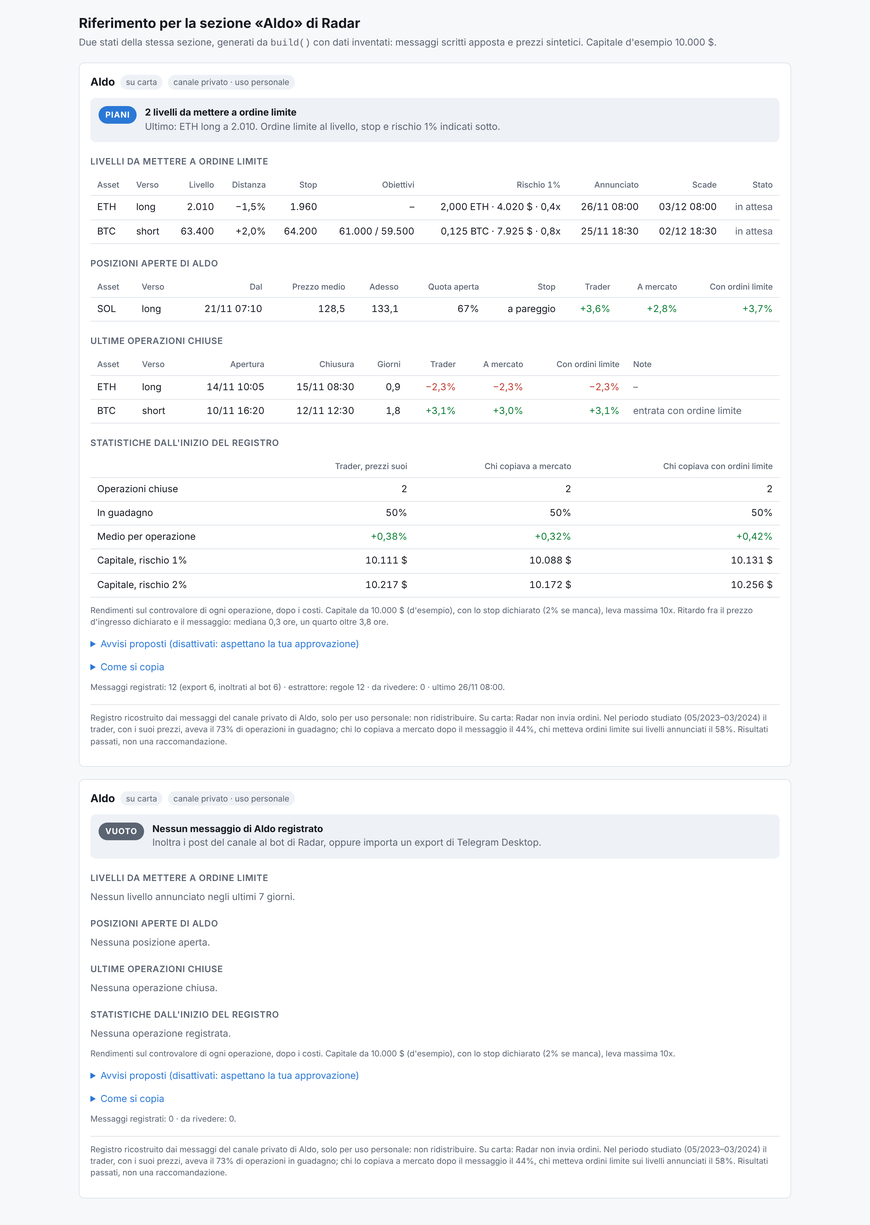
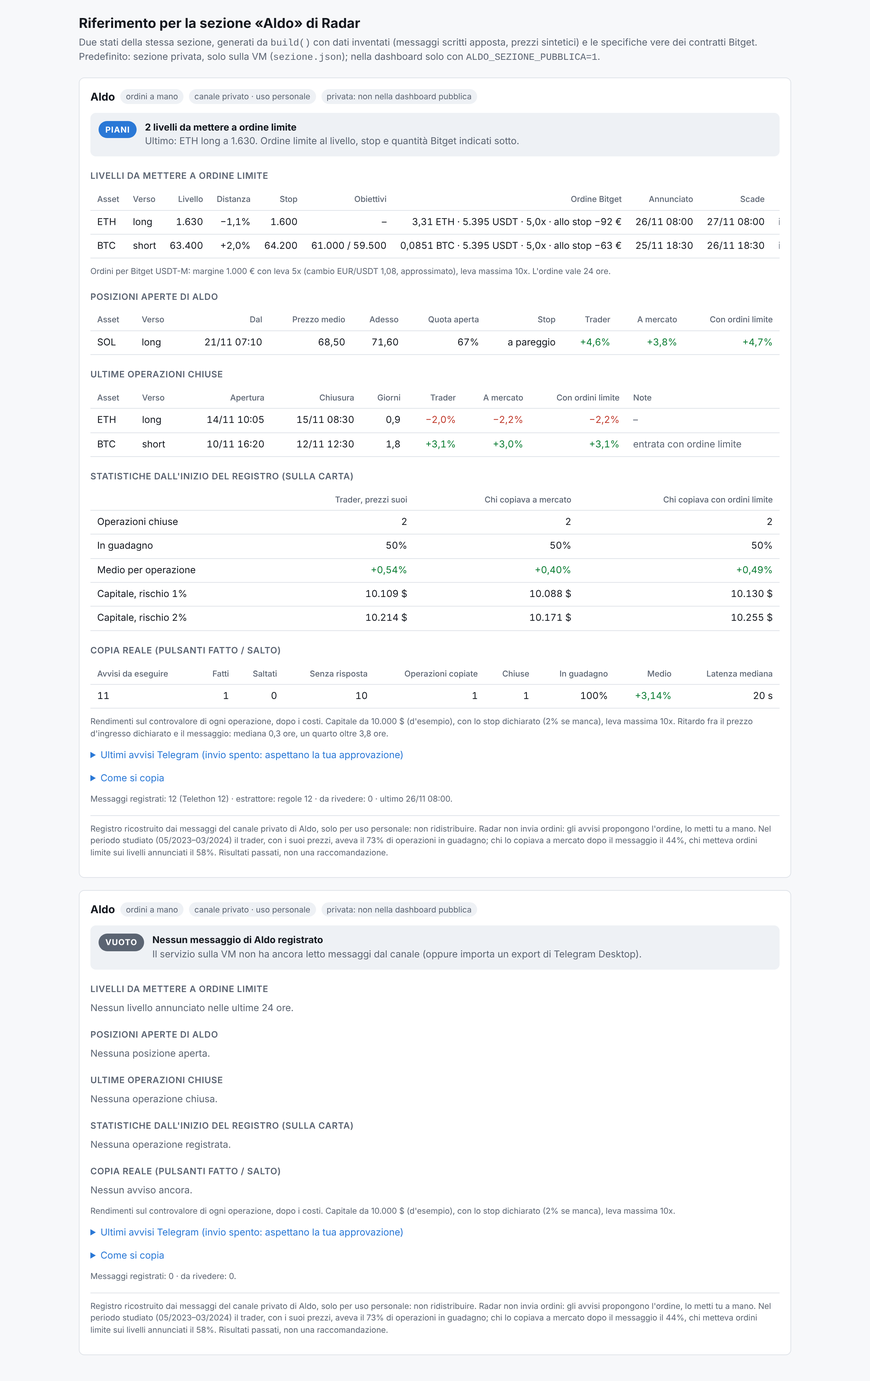
Strumento Aldo: aggiornamento in corso
Claude-Session: https://claude.ai/code/session_018ybXKDUnmUPkFkkKd2DnMN

diff --git a/export/radar-aldo/riferimento_sezione.html b/export/radar-aldo/riferimento_sezione.html
@@ -36,11 +36,11 @@ ol { margin: 8px 0 0; padding-left: 20px; } details summary { cursor: pointer; c
 </style>
 <div class="wrap">
   <header><h1>Riferimento per la sezione «Aldo» di Radar</h1>
-    <p class="sub">Due stati della stessa sezione, generati da <code>build()</code> con dati inventati: messaggi scritti apposta e prezzi sintetici. Capitale d'esempio 10.000 $.</p></header>
+    <p class="sub">Due stati della stessa sezione, generati da <code>build()</code> con dati inventati (messaggi scritti apposta, prezzi sintetici) e le specifiche vere dei contratti Bitget. Predefinito: sezione privata, solo sulla VM (<code>sezione.json</code>); nella dashboard solo con <code>ALDO_SEZIONE_PUBBLICA=1</code>.</p></header>
   <div id="out"></div>
 </div>
 <script>
-const STATI = {"attiva": {"aggiornato": "2026-11-26T12:00:00Z", "capitale": 10000.0, "capitale_esempio": true, "copia": {"modalita": "importo", "importo_eur": 1000.0, "cambio_eur_usdt": 1.08, "leva": 5.0, "leva_max": 10.0, "capitale_usdt": 10000.0, "rischio_pct": 2.0, "stop_mancante": 0.02, "max_minuti": 10.0, "max_scostamento_pct": 0.5, "ordine_ore": 24.0}, "fonte": {"messaggi": 12, "ultimo_messaggio": "2026-11-26T08:00:00Z", "per_origine": {"telethon": 12}, "estrattore": {"regole": 12}, "da_rivedere": 0, "prezzi_mancanti": []}, "piani": [{"asset": "ETH", "verso": "long", "livello": 1630.0, "stop": 1600.0, "obiettivi": [], "annunciato": "2026-11-26 08:00", "scade": "2026-12-03 08:00", "prezzo_ora": 1648.0, "distanza_pct": -1.09, "stato": "in attesa", "raggiunto_il": null, "affidabilita": 0.9, "ordine": {"simbolo": "ETHUSDT", "verso": "long", "lato": "compra", "livello": 1630.0, "stop": 1600.0, "stop_stimato": false, "quantita": 3.31, "unita": "ETH", "contratti": 331, "passo_quantita": 0.01, "controvalore_usdt": 5395.3, "distanza_stop_pct": 1.84, "perdita_stop_usdt": 99.3, "modalita": "importo", "note": [], "importo_eur": 1000.0, "cambio_eur_usdt": 1.08, "margine_usdt": 1080.0, "leva": 5.0, "perdita_stop_eur": 91.94, "perdita_stop_pct_importo": 9.2}}, {"asset": "BTC", "verso": "short", "livello": 63400.0, "stop": 64200.0, "obiettivi": [61000.0, 59500.0], "annunciato": "2026-11-25 18:30", "scade": "2026-12-02 18:30", "prezzo_ora": 62150.0, "distanza_pct": 2.01, "stato": "in attesa", "raggiunto_il": null, "affidabilita": 0.9, "ordine": {"simbolo": "BTCUSDT", "verso": "short", "lato": "vendi", "livello": 63400.0, "stop": 64200.0, "stop_stimato": false, "quantita": 0.0851, "unita": "BTC", "contratti": 851, "passo_quantita": 0.0001, "controvalore_usdt": 5395.34, "distanza_stop_pct": 1.26, "perdita_stop_usdt": 68.08, "modalita": "importo", "note": [], "importo_eur": 1000.0, "cambio_eur_usdt": 1.08, "margine_usdt": 1080.0, "leva": 5.0, "perdita_stop_eur": 63.04, "perdita_stop_pct_importo": 6.3}}], "posizioni": [{"trade": "L-261121-SOL-L", "asset": "SOL", "verso": "long", "aperta": "2026-11-21 07:10", "quota_aperta": 0.67, "prezzo_medio": 68.5, "prezzo_ora": 71.6, "stop": 66.8, "stop_a_pareggio": true, "obiettivi": [73.5, 76.0], "trader_pct": 4.56, "mercato_pct": 3.84, "limite_pct": 4.69, "comunicata_dopo": false}], "chiuse": [{"trade": "L-261114-ETH-L", "asset": "ETH", "verso": "long", "apertura": "2026-11-14 10:05", "chiusura": "2026-11-15 08:30", "giorni": 0.9, "trader_pct": -1.98, "mercato_pct": -2.16, "limite_pct": -2.16, "ingresso_limite": false, "comunicata_dopo": false}, {"trade": "L-261110-BTC-S", "asset": "BTC", "verso": "short", "apertura": "2026-11-10 16:20", "chiusura": "2026-11-12 12:30", "giorni": 1.8, "trader_pct": 3.07, "mercato_pct": 2.95, "limite_pct": 3.14, "ingresso_limite": true, "comunicata_dopo": false}], "statistiche": {"trader": {"operazioni": 2, "in_guadagno_pct": 50.0, "medio_pct": 0.54, "mediana_pct": 0.54, "capitale_1x": 10102.0, "capitale_rischio_1": 10109.0, "capitale_rischio_2": 10214.0, "peggiore_rischio_2_pct": -2.18}, "mercato": {"operazioni": 2, "in_guadagno_pct": 50.0, "medio_pct": 0.4, "mediana_pct": 0.4, "capitale_1x": 10073.0, "capitale_rischio_1": 10088.0, "capitale_rischio_2": 10171.0, "peggiore_rischio_2_pct": -2.16}, "limite": {"operazioni": 2, "in_guadagno_pct": 50.0, "medio_pct": 0.49, "mediana_pct": 0.49, "capitale_1x": 10092.0, "capitale_rischio_1": 10130.0, "capitale_rischio_2": 10255.0, "peggiore_rischio_2_pct": -2.16}, "leva_max": 10.0, "limite_entrate_con_ordine": 2}, "ritardo": {"prezzi_dichiarati": 3, "toccati_pct": 100.0, "mediana_ore": 0.3, "quartile_ore": 3.8}, "avvisi": {"attivi": false, "ultimi": [{"tipo": "apertura", "creato": "2026-11-21T07:10:20Z", "stato": "inviato", "scelta": null, "testo": "<b>Aldo · SOL LONG · entrato sul livello annunciato<\/b>\nAldo è entrato vicino a 68,500, il livello annunciato il 20/11 13:00 UTC.\nSe hai messo l'ordine limite, controlla che sia eseguito e che ci sia lo stop."}, {"tipo": "chiusura_parziale", "creato": "2026-11-23T15:00:20Z", "stato": "inviato", "scelta": null, "testo": "<b>Aldo · SOL LONG · chiuso il 33%<\/b>\n<b>Chiudi il 33% a mercato<\/b>. Prezzo ora 72,300.\nCopia non registrata.\nLo metti tu a mano su Bitget. «Fatto» / «Salto» registrano cosa hai fatto."}, {"tipo": "stop_pareggio", "creato": "2026-11-23T15:00:20Z", "stato": "inviato", "scelta": null, "testo": "<b>Aldo · SOL LONG · stop a pareggio<\/b>\n<b>Sposta lo stop a prezzo d'ingresso<\/b>. Prezzo ora 72,300.\nCopia non registrata.\nLo metti tu a mano su Bitget. «Fatto» / «Salto» registrano cosa hai fatto."}, {"tipo": "piano", "creato": "2026-11-25T18:30:20Z", "stato": "inviato", "scelta": null, "testo": "<b>Aldo · BTC SHORT · nuovo livello<\/b>\n<b>ORDINE LIMITE<\/b>: vendi 0,0851 BTC = 851 contratti da 0,0001 a <b>63.400,0<\/b> · Bitget BTCUSDT (USDT-M)\nStop 64.200,0 (dichiarato) · distanza 1,26%\nObiettivo 1: 61.000,0 → chiudi metà, poi stop a pareggio · poi 59.500,0\nMargine 1.000 € (≈ 1.080 USDT, cambio 1,08 approssimato) · leva 5,0x · controvalore 5.395 USDT\nAllo stop perdi ≈ 63 € (6,3% dell'importo)\nPrezzo ora 62.587,4 (livello a +1,30%) · ordine valido 24 ore, fino al 26/11 18:30 UTC\nLo metti tu a mano su Bitget. «Fatto» / «Salto» registrano cosa hai fatto."}, {"tipo": "piano", "creato": "2026-11-26T08:00:20Z", "stato": "inviato", "scelta": null, "testo": "<b>Aldo · ETH LONG · nuovo livello<\/b>\n<b>ORDINE LIMITE<\/b>: compra 3,31 ETH = 331 contratti da 0,01 a <b>1.630,00<\/b> · Bitget ETHUSDT (USDT-M)\nStop 1.600,00 (dichiarato) · distanza 1,84%\nObiettivi non indicati: segui i suoi messaggi di chiusura\nMargine 1.000 € (≈ 1.080 USDT, cambio 1,08 approssimato) · leva 5,0x · controvalore 5.395 USDT\nAllo stop perdi ≈ 92 € (9,2% dell'importo)\nPrezzo ora 1.651,99 (livello a −1,33%) · ordine valido 24 ore, fino al 27/11 08:00 UTC\nLo metti tu a mano su Bitget. «Fatto» / «Salto» registrano cosa hai fatto."}]}, "reale": {"avvisi": 13, "azionabili": 11, "fatti": 1, "saltati": 0, "senza_risposta": 10, "operazioni_copiate": 1, "operazioni_saltate": 0, "copiate_chiuse": 1, "in_guadagno_pct": 100, "medio_pct": 3.14}, "latenza": {"n": 11, "mediana_s": 20.0, "p90_s": 20.0, "ultima_s": 20.0}, "regole": ["Livelli annunciati prima: ordine limite al livello su Bitget (USDT-M)", "Ingressi senza livello: a mercato solo entro 10 minuti dal suo ingresso e con scostamento sotto lo 0,5%; altrimenti non si copia", "Stop: quello dichiarato; se manca, 2% oltre il livello", "Dimensione: importo fisso per operazione (500–2.000 €) con leva fissa, oppure rischio fisso sul capitale; leva al massimo 10x", "Metà al primo obiettivo, poi stop a pareggio, come fa lui", "L'ordine limite vale 24 ore, poi si cancella"], "avvertenza": "Registro ricostruito dai messaggi del canale privato di Aldo, solo per uso personale: non ridistribuire. Radar non invia ordini: gli avvisi propongono l'ordine, lo metti tu a mano. Nel periodo studiato (05/2023–03/2024) il trader, con i suoi prezzi, aveva il 73% di operazioni in guadagno; chi lo copiava a mercato dopo il messaggio il 44%, chi metteva ordini limite sui livelli annunciati il 58%. Risultati passati, non una raccomandazione.", "stato": "piani", "titolo": "2 livelli da mettere a ordine limite", "testo": "Ultimo: ETH long a 1.630. Ordine limite al livello, stop e quantità Bitget indicati sotto."}, "vuota": {"aggiornato": "2026-11-26T12:00:00Z", "capitale": 10000.0, "capitale_esempio": true, "copia": {}, "fonte": {"messaggi": 0, "ultimo_messaggio": null, "per_origine": {}, "estrattore": {}, "da_rivedere": 0, "prezzi_mancanti": []}, "piani": [], "posizioni": [], "chiuse": [], "statistiche": {}, "ritardo": {}, "avvisi": {"attivi": false, "ultimi": []}, "reale": {}, "latenza": {}, "regole": ["Livelli annunciati prima: ordine limite al livello su Bitget (USDT-M)", "Ingressi senza livello: a mercato solo entro 10 minuti dal suo ingresso e con scostamento sotto lo 0,5%; altrimenti non si copia", "Stop: quello dichiarato; se manca, 2% oltre il livello", "Dimensione: importo fisso per operazione (500–2.000 €) con leva fissa, oppure rischio fisso sul capitale; leva al massimo 10x", "Metà al primo obiettivo, poi stop a pareggio, come fa lui", "L'ordine limite vale 24 ore, poi si cancella"], "avvertenza": "Registro ricostruito dai messaggi del canale privato di Aldo, solo per uso personale: non ridistribuire. Radar non invia ordini: gli avvisi propongono l'ordine, lo metti tu a mano. Nel periodo studiato (05/2023–03/2024) il trader, con i suoi prezzi, aveva il 73% di operazioni in guadagno; chi lo copiava a mercato dopo il messaggio il 44%, chi metteva ordini limite sui livelli annunciati il 58%. Risultati passati, non una raccomandazione.", "stato": "vuoto", "titolo": "Nessun messaggio di Aldo registrato", "testo": "Il servizio sulla VM non ha ancora letto messaggi dal canale (oppure importa un export di Telegram Desktop)."}};
+const STATI = {"attiva": {"aggiornato": "2026-11-26T12:00:00Z", "capitale": 10000.0, "capitale_esempio": true, "copia": {"modalita": "importo", "importo_eur": 1000.0, "cambio_eur_usdt": 1.08, "leva": 5.0, "leva_max": 10.0, "capitale_usdt": 10000.0, "rischio_pct": 2.0, "stop_mancante": 0.02, "max_minuti": 10.0, "max_scostamento_pct": 0.5, "ordine_ore": 24.0}, "fonte": {"messaggi": 12, "ultimo_messaggio": "2026-11-26T08:00:00Z", "per_origine": {"telethon": 12}, "estrattore": {"regole": 12}, "da_rivedere": 0, "prezzi_mancanti": []}, "piani": [{"asset": "ETH", "verso": "long", "livello": 1630.0, "stop": 1600.0, "obiettivi": [], "annunciato": "2026-11-26 08:00", "scade": "2026-11-27 08:00", "prezzo_ora": 1648.0, "distanza_pct": -1.09, "stato": "in attesa", "raggiunto_il": null, "affidabilita": 0.9, "ordine": {"simbolo": "ETHUSDT", "verso": "long", "lato": "compra", "livello": 1630.0, "stop": 1600.0, "stop_stimato": false, "quantita": 3.31, "unita": "ETH", "contratti": 331, "passo_quantita": 0.01, "controvalore_usdt": 5395.3, "distanza_stop_pct": 1.84, "perdita_stop_usdt": 99.3, "modalita": "importo", "note": [], "importo_eur": 1000.0, "cambio_eur_usdt": 1.08, "margine_usdt": 1080.0, "leva": 5.0, "perdita_stop_eur": 91.94, "perdita_stop_pct_importo": 9.2}}, {"asset": "BTC", "verso": "short", "livello": 63400.0, "stop": 64200.0, "obiettivi": [61000.0, 59500.0], "annunciato": "2026-11-25 18:30", "scade": "2026-11-26 18:30", "prezzo_ora": 62150.0, "distanza_pct": 2.01, "stato": "in attesa", "raggiunto_il": null, "affidabilita": 0.9, "ordine": {"simbolo": "BTCUSDT", "verso": "short", "lato": "vendi", "livello": 63400.0, "stop": 64200.0, "stop_stimato": false, "quantita": 0.0851, "unita": "BTC", "contratti": 851, "passo_quantita": 0.0001, "controvalore_usdt": 5395.34, "distanza_stop_pct": 1.26, "perdita_stop_usdt": 68.08, "modalita": "importo", "note": [], "importo_eur": 1000.0, "cambio_eur_usdt": 1.08, "margine_usdt": 1080.0, "leva": 5.0, "perdita_stop_eur": 63.04, "perdita_stop_pct_importo": 6.3}}], "posizioni": [{"trade": "L-261121-SOL-L", "asset": "SOL", "verso": "long", "aperta": "2026-11-21 07:10", "quota_aperta": 0.67, "prezzo_medio": 68.5, "prezzo_ora": 71.6, "stop": 66.8, "stop_a_pareggio": true, "obiettivi": [73.5, 76.0], "trader_pct": 4.56, "mercato_pct": 3.84, "limite_pct": 4.69, "comunicata_dopo": false}], "chiuse": [{"trade": "L-261114-ETH-L", "asset": "ETH", "verso": "long", "apertura": "2026-11-14 10:05", "chiusura": "2026-11-15 08:30", "giorni": 0.9, "trader_pct": -1.98, "mercato_pct": -2.16, "limite_pct": -2.16, "ingresso_limite": false, "comunicata_dopo": false}, {"trade": "L-261110-BTC-S", "asset": "BTC", "verso": "short", "apertura": "2026-11-10 16:20", "chiusura": "2026-11-12 12:30", "giorni": 1.8, "trader_pct": 3.07, "mercato_pct": 2.95, "limite_pct": 3.14, "ingresso_limite": true, "comunicata_dopo": false}], "statistiche": {"trader": {"operazioni": 2, "in_guadagno_pct": 50.0, "medio_pct": 0.54, "mediana_pct": 0.54, "capitale_1x": 10102.0, "capitale_rischio_1": 10109.0, "capitale_rischio_2": 10214.0, "peggiore_rischio_2_pct": -2.18}, "mercato": {"operazioni": 2, "in_guadagno_pct": 50.0, "medio_pct": 0.4, "mediana_pct": 0.4, "capitale_1x": 10073.0, "capitale_rischio_1": 10088.0, "capitale_rischio_2": 10171.0, "peggiore_rischio_2_pct": -2.16}, "limite": {"operazioni": 2, "in_guadagno_pct": 50.0, "medio_pct": 0.49, "mediana_pct": 0.49, "capitale_1x": 10092.0, "capitale_rischio_1": 10130.0, "capitale_rischio_2": 10255.0, "peggiore_rischio_2_pct": -2.16}, "leva_max": 10.0, "limite_entrate_con_ordine": 2}, "ritardo": {"prezzi_dichiarati": 3, "toccati_pct": 100.0, "mediana_ore": 0.3, "quartile_ore": 3.8}, "avvisi": {"attivi": false, "ultimi": [{"tipo": "apertura", "creato": "2026-11-21T07:10:20Z", "stato": "inviato", "scelta": null, "testo": "<b>Aldo · SOL LONG · entrato sul livello annunciato<\/b>\nAldo è entrato vicino a 68,500, il livello annunciato il 20/11 13:00 UTC.\nSe hai messo l'ordine limite, controlla che sia eseguito e che ci sia lo stop."}, {"tipo": "chiusura_parziale", "creato": "2026-11-23T15:00:20Z", "stato": "inviato", "scelta": null, "testo": "<b>Aldo · SOL LONG · chiuso il 33%<\/b>\n<b>Chiudi il 33% a mercato<\/b>. Prezzo ora 72,300.\nCopia non registrata.\nLo metti tu a mano su Bitget. «Fatto» / «Salto» registrano cosa hai fatto."}, {"tipo": "stop_pareggio", "creato": "2026-11-23T15:00:20Z", "stato": "inviato", "scelta": null, "testo": "<b>Aldo · SOL LONG · stop a pareggio<\/b>\n<b>Sposta lo stop a prezzo d'ingresso<\/b>. Prezzo ora 72,300.\nCopia non registrata.\nLo metti tu a mano su Bitget. «Fatto» / «Salto» registrano cosa hai fatto."}, {"tipo": "piano", "creato": "2026-11-25T18:30:20Z", "stato": "inviato", "scelta": null, "testo": "<b>Aldo · BTC SHORT · nuovo livello<\/b>\n<b>ORDINE LIMITE<\/b>: vendi 0,0851 BTC = 851 contratti da 0,0001 a <b>63.400,0<\/b> · Bitget BTCUSDT (USDT-M)\nStop 64.200,0 (dichiarato) · distanza 1,26%\nObiettivo 1: 61.000,0 → chiudi metà, poi stop a pareggio · poi 59.500,0\nMargine 1.000 € (≈ 1.080 USDT, cambio 1,08 approssimato) · leva 5,0x · controvalore 5.395 USDT\nAllo stop perdi ≈ 63 € (6,3% dell'importo)\nPrezzo ora 62.587,4 (livello a +1,30%) · ordine valido 24 ore, fino al 26/11 18:30 UTC\nLo metti tu a mano su Bitget. «Fatto» / «Salto» registrano cosa hai fatto."}, {"tipo": "piano", "creato": "2026-11-26T08:00:20Z", "stato": "inviato", "scelta": null, "testo": "<b>Aldo · ETH LONG · nuovo livello<\/b>\n<b>ORDINE LIMITE<\/b>: compra 3,31 ETH = 331 contratti da 0,01 a <b>1.630,00<\/b> · Bitget ETHUSDT (USDT-M)\nStop 1.600,00 (dichiarato) · distanza 1,84%\nObiettivi non indicati: segui i suoi messaggi di chiusura\nMargine 1.000 € (≈ 1.080 USDT, cambio 1,08 approssimato) · leva 5,0x · controvalore 5.395 USDT\nAllo stop perdi ≈ 92 € (9,2% dell'importo)\nPrezzo ora 1.651,99 (livello a −1,33%) · ordine valido 24 ore, fino al 27/11 08:00 UTC\nLo metti tu a mano su Bitget. «Fatto» / «Salto» registrano cosa hai fatto."}]}, "reale": {"avvisi": 13, "azionabili": 11, "fatti": 1, "saltati": 0, "senza_risposta": 10, "operazioni_copiate": 1, "operazioni_saltate": 0, "copiate_chiuse": 1, "in_guadagno_pct": 100, "medio_pct": 3.14}, "latenza": {"n": 11, "mediana_s": 20.0, "p90_s": 20.0, "ultima_s": 20.0}, "regole": ["Livelli annunciati prima: ordine limite al livello su Bitget (USDT-M)", "Ingressi senza livello: a mercato solo entro 10 minuti dal suo ingresso e con scostamento sotto lo 0,5%; altrimenti non si copia", "Stop: quello dichiarato; se manca, 2% oltre il livello", "Dimensione: importo fisso per operazione (500–2.000 €) con leva fissa, oppure rischio fisso sul capitale; leva al massimo 10x", "Metà al primo obiettivo, poi stop a pareggio, come fa lui", "L'ordine limite vale 24 ore, poi si cancella"], "avvertenza": "Registro ricostruito dai messaggi del canale privato di Aldo, solo per uso personale: non ridistribuire. Radar non invia ordini: gli avvisi propongono l'ordine, lo metti tu a mano. Nel periodo studiato (05/2023–03/2024) il trader, con i suoi prezzi, aveva il 73% di operazioni in guadagno; chi lo copiava a mercato dopo il messaggio il 44%, chi metteva ordini limite sui livelli annunciati il 58%. Risultati passati, non una raccomandazione.", "stato": "piani", "titolo": "2 livelli da mettere a ordine limite", "testo": "Ultimo: ETH long a 1.630. Ordine limite al livello, stop e quantità Bitget indicati sotto."}, "vuota": {"aggiornato": "2026-11-26T12:00:00Z", "capitale": 10000.0, "capitale_esempio": true, "copia": {}, "fonte": {"messaggi": 0, "ultimo_messaggio": null, "per_origine": {}, "estrattore": {}, "da_rivedere": 0, "prezzi_mancanti": []}, "piani": [], "posizioni": [], "chiuse": [], "statistiche": {}, "ritardo": {}, "avvisi": {"attivi": false, "ultimi": []}, "reale": {}, "latenza": {}, "regole": ["Livelli annunciati prima: ordine limite al livello su Bitget (USDT-M)", "Ingressi senza livello: a mercato solo entro 10 minuti dal suo ingresso e con scostamento sotto lo 0,5%; altrimenti non si copia", "Stop: quello dichiarato; se manca, 2% oltre il livello", "Dimensione: importo fisso per operazione (500–2.000 €) con leva fissa, oppure rischio fisso sul capitale; leva al massimo 10x", "Metà al primo obiettivo, poi stop a pareggio, come fa lui", "L'ordine limite vale 24 ore, poi si cancella"], "avvertenza": "Registro ricostruito dai messaggi del canale privato di Aldo, solo per uso personale: non ridistribuire. Radar non invia ordini: gli avvisi propongono l'ordine, lo metti tu a mano. Nel periodo studiato (05/2023–03/2024) il trader, con i suoi prezzi, aveva il 73% di operazioni in guadagno; chi lo copiava a mercato dopo il messaggio il 44%, chi metteva ordini limite sui livelli annunciati il 58%. Risultati passati, non una raccomandazione.", "stato": "vuoto", "titolo": "Nessun messaggio di Aldo registrato", "testo": "Il servizio sulla VM non ha ancora letto messaggi dal canale (oppure importa un export di Telegram Desktop)."}};
 const mig = (v, d = 0) => { const s = Math.abs(v).toFixed(d).split("."); return s[0].replace(/\B(?=(\d{3})+(?!\d))/g, ".") + (s[1] ? "," + s[1] : ""); };
 const px = v => v == null ? "–" : mig(v, Math.abs(v) >= 1000 ? 0 : Math.abs(v) >= 100 ? 1 : Math.abs(v) >= 1 ? 2 : 4);
 const usd = v => v == null ? "–" : mig(v) + " $";
@@ -55,12 +55,21 @@ function tabella(intest, righe, vuoto) {
 }
 const td = (v, c = "") => `<td class="${c}">${v}</td>`;
 
+function reale(r, l) {
+  if (!r.avvisi) return `<p class="niente">Nessun avviso ancora.</p>`;
+  return tabella(["Avvisi da eseguire", "Fatti", "Saltati", "Senza risposta", "Operazioni copiate", "Chiuse", "In guadagno", "Medio", "Latenza mediana"],
+    [[td(r.azionabili), td(r.fatti), td(r.saltati), td(r.senza_risposta), td(r.operazioni_copiate), td(r.copiate_chiuse),
+      td(r.in_guadagno_pct == null ? "–" : mig(r.in_guadagno_pct) + "%"), td(pct(r.medio_pct, 2), cls(r.medio_pct)), td(l.n ? mig(l.mediana_s) + " s" : "–")]], "");
+}
+
 function sezione(s) {
-  const piani = tabella(["Asset", "Verso", "Livello", "Distanza", "Stop", "Obiettivi", "Rischio 1%", "Annunciato", "Scade", "Stato"],
-    s.piani.map(p => [td(p.asset), td(p.verso, "l"), td(px(p.livello)), td(pct(p.distanza_pct)), td(px(p.rischio_1.stop) + (p.rischio_1.stop_stimato ? " *" : "")),
-      td(p.obiettivi.map(px).join(" / ") || "–"), td(`${mig(p.rischio_1.quantita, p.rischio_1.quantita < 10 ? 3 : 0)} ${p.asset} · ${usd(p.rischio_1.controvalore)} · ${mig(p.rischio_1.leva, 1)}x`),
+  const ord = o => o.errore ? o.errore : `${mig(o.quantita, o.quantita < 1 ? 4 : o.quantita < 100 ? 2 : 0)} ${o.unita} · ${mig(o.controvalore_usdt)} USDT · ${mig(o.leva, 1)}x`
+    + (o.perdita_stop_eur != null ? ` · allo stop −${mig(o.perdita_stop_eur)} €` : "");
+  const piani = tabella(["Asset", "Verso", "Livello", "Distanza", "Stop", "Obiettivi", "Ordine Bitget", "Annunciato", "Scade", "Stato"],
+    s.piani.map(p => [td(p.asset), td(p.verso, "l"), td(px(p.livello)), td(pct(p.distanza_pct)), td(px(p.ordine.stop) + (p.ordine.stop_stimato ? " *" : "")),
+      td(p.obiettivi.map(px).join(" / ") || "–"), td(ord(p.ordine)),
       td(dt(p.annunciato)), td(dt(p.scade)), td(p.stato === "raggiunto" ? "livello toccato " + dt(p.raggiunto_il) : "in attesa", p.stato === "raggiunto" ? "" : "m")]),
-    "Nessun livello annunciato negli ultimi 7 giorni.");
+    "Nessun livello annunciato nelle ultime 24 ore.");
   const pos = tabella(["Asset", "Verso", "Dal", "Prezzo medio", "Adesso", "Quota aperta", "Stop", "Trader", "A mercato", "Con ordini limite"],
     s.posizioni.map(p => [td(p.asset), td(p.verso, "l"), td(dt(p.aperta)), td(px(p.prezzo_medio)), td(px(p.prezzo_ora)), td(mig(p.quota_aperta * 100) + "%"),
       td(p.stop_a_pareggio ? "a pareggio" : px(p.stop)), td(pct(p.trader_pct), cls(p.trader_pct)), td(pct(p.mercato_pct), cls(p.mercato_pct)), td(pct(p.limite_pct), cls(p.limite_pct))]),
@@ -79,17 +88,19 @@ function sezione(s) {
   const origini = Object.entries(f.per_origine).map(([k, v]) => `${{ export: "export", bot: "inoltrati al bot", telethon: "Telethon" }[k] || k} ${v}`).join(", ");
   const estr = Object.entries(f.estrattore).map(([k, v]) => `${k} ${v}`).join(", ");
   return `<section class="card">
-    <div class="head"><h2>Aldo</h2><span class="chip">su carta</span><span class="chip">canale privato · uso personale</span></div>
+    <div class="head"><h2>Aldo</h2><span class="chip">ordini a mano</span><span class="chip">canale privato · uso personale</span><span class="chip">privata: non nella dashboard pubblica</span></div>
     <div class="banner"><span class="tag ${s.stato}">${NOMI[s.stato]}</span><div><b>${s.titolo}</b><span>${s.testo}</span></div></div>
     <h3>Livelli da mettere a ordine limite</h3>${piani}
-    ${s.piani.some(p => p.rischio_1.stop_stimato) ? `<p class="note">* stop non indicato da Aldo: 2% oltre il livello.</p>` : ""}
+    ${s.piani.some(p => p.ordine.stop_stimato) ? `<p class="note">* stop non indicato da Aldo: 2% oltre il livello.</p>` : ""}
+    ${s.copia && s.copia.modalita ? `<p class="note">Ordini per Bitget USDT-M: ${s.copia.modalita === "importo" ? `margine ${mig(s.copia.importo_eur)} € con leva ${mig(s.copia.leva)}x (cambio EUR/USDT ${mig(s.copia.cambio_eur_usdt, 2)}, approssimato)` : `rischio ${mig(s.copia.rischio_pct, 1)}% di ${mig(s.copia.capitale_usdt)} USDT`}, leva massima ${mig(s.copia.leva_max)}x. L'ordine vale ${mig(s.copia.ordine_ore)} ore.</p>` : ""}
     <h3>Posizioni aperte di Aldo</h3>${pos}
     <h3>Ultime operazioni chiuse</h3>${chiuse}
-    <h3>Statistiche dall'inizio del registro</h3>${stat}
+    <h3>Statistiche dall'inizio del registro (sulla carta)</h3>${stat}
+    <h3>Copia reale (pulsanti Fatto / Salto)</h3>${reale(s.reale || {}, s.latenza || {})}
     <p class="note">Rendimenti sul controvalore di ogni operazione, dopo i costi. Capitale da ${usd(s.capitale)}${s.capitale_esempio ? " (d'esempio)" : ""}, con lo stop dichiarato (2% se manca), leva massima 10x.
       ${r.prezzi_dichiarati ? `Ritardo fra il prezzo d'ingresso dichiarato e il messaggio: mediana ${mig(r.mediana_ore, 1)} ore, un quarto oltre ${mig(r.quartile_ore, 1)} ore.` : ""}</p>
-    <details><summary>Avvisi proposti${s.avvisi.attivi ? "" : " (disattivati: aspettano la tua approvazione)"}</summary>
-      ${s.avvisi.proposti.length ? s.avvisi.proposti.map(a => `<pre>${a.testo}</pre>`).join("") : `<p class="niente">Nessun avviso proposto.</p>`}</details>
+    <details><summary>Ultimi avvisi Telegram${s.avvisi.attivi ? "" : " (invio spento: aspettano la tua approvazione)"}</summary>
+      ${s.avvisi.ultimi.length ? s.avvisi.ultimi.map(a => `<pre>${a.testo}${a.scelta ? `\n<i>Registrato: ${a.scelta}</i>` : ""}</pre>`).join("") : `<p class="niente">Nessun avviso.</p>`}</details>
     <details><summary>Come si copia</summary><ol>${s.regole.map(x => `<li>${x}</li>`).join("")}</ol></details>
     <p class="note">Messaggi registrati: ${f.messaggi}${origini ? " (" + origini + ")" : ""}${estr ? " · estrattore: " + estr : ""} · da rivedere: ${f.da_rivedere}${f.ultimo_messaggio ? " · ultimo " + dt(f.ultimo_messaggio.replace("T", " ")) : ""}.</p>
     <p class="avv">${s.avvertenza}</p>

diff --git a/export/radar-aldo/aldo.py b/export/radar-aldo/aldo.py
@@ -1424,7 +1424,7 @@ def ricostruisci(registro: dict, prezzi, adesso=None, capitale: float | None = N
         liv, ora = x["livello_innesco"], prezzi.ora(x["asset"])
         tocco = m.touched(x["asset"], liv, _ts(x["utc"]) + pd.Timedelta(hours=1), _ts(adesso)) if prezzi(x["asset"]) is not None else (None, None)
         piani.append({"asset": x["asset"], "verso": x["verso"], "livello": liv, "stop": x.get("stop"), "obiettivi": x.get("target") or [],
-                      "annunciato": x["utc"], "scade": (_dt(x["utc"]) + timedelta(days=GIORNI_PIANO)).strftime("%Y-%m-%d %H:%M"),
+                      "annunciato": x["utc"], "scade": (_dt(x["utc"]) + timedelta(hours=float(os.environ.get("ORDINE_ORE", ORE_ORDINE)))).strftime("%Y-%m-%d %H:%M"),
                       "prezzo_ora": ora, "distanza_pct": _r((liv / ora - 1) * 100) if ora else None,
                       "stato": "raggiunto" if tocco[0] else "in attesa", "raggiunto_il": tocco[1].strftime("%Y-%m-%d %H:%M") if tocco[0] else None,
                       "affidabilita": x.get("affidabilita"), "ordine": _ordine_piano(x, contratti, copia, capitale)})

diff --git a/export/radar-aldo/esempio_avvisi.md b/export/radar-aldo/esempio_avvisi.md
@@ -76,7 +76,7 @@ Messaggio di Aldo alle 14/11 10:05 UTC · avviso dopo 20 s
 
 ```
 **Aldo · ETH LONG · ingresso a mercato**
-**A MERCATO**: Aldo è già dentro da 0 minuti, prezzo suo 1.701,00, prezzo ora 1.700,36, scostamento -0,04%
+**A MERCATO**: Aldo è già dentro da meno di un minuto, prezzo suo 1.701,00, prezzo ora 1.700,36, scostamento −0,04%
 Ordine a mercato: compra 3,17 ETH = 317 contratti da 0,01 · Bitget ETHUSDT (USDT-M)
 Stop 1.670,00 (dichiarato) · distanza 1,79%
 Obiettivo 1: 1.780,00 → chiudi metà, poi stop a pareggio
